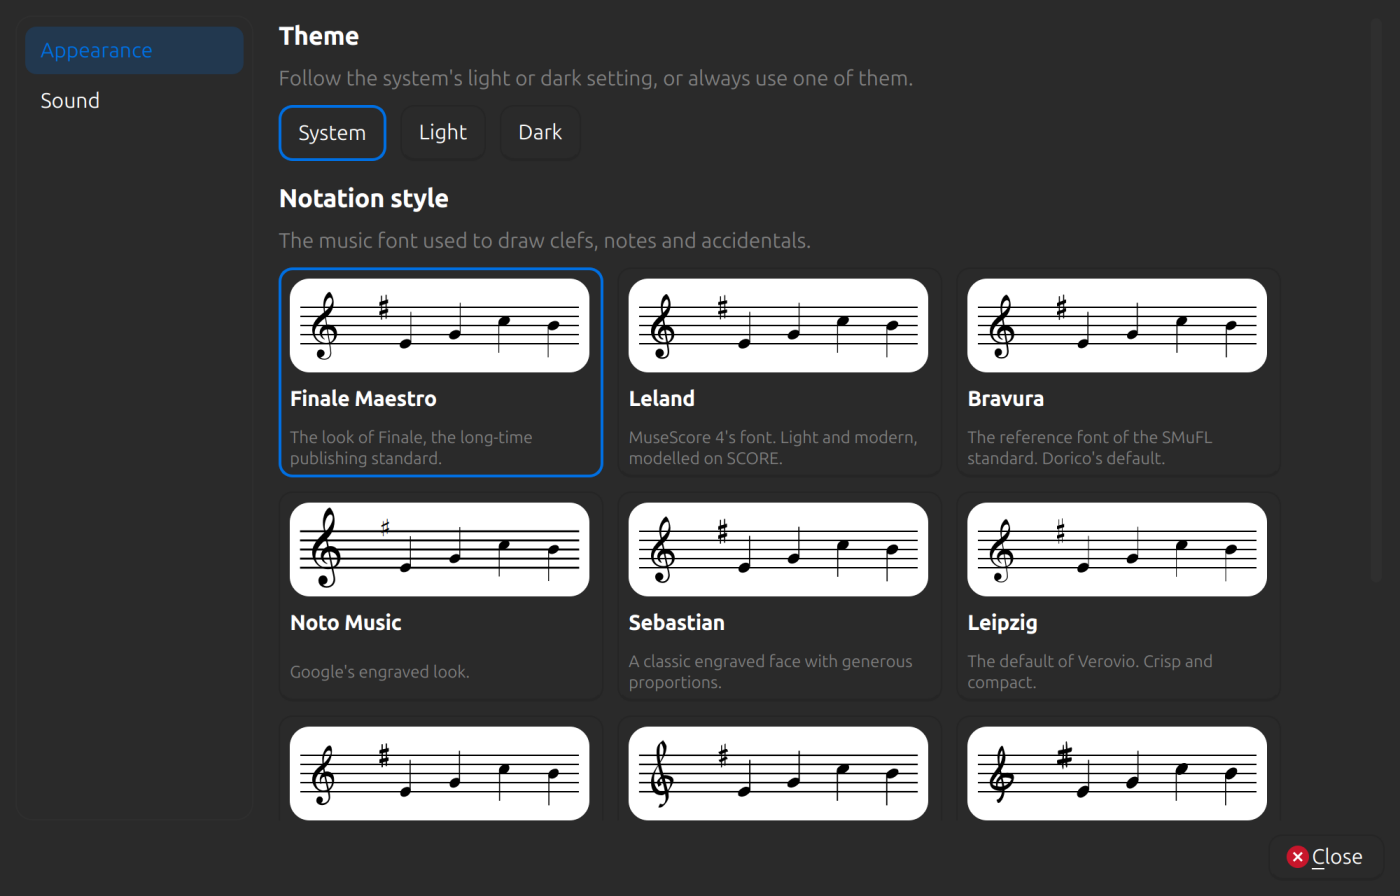
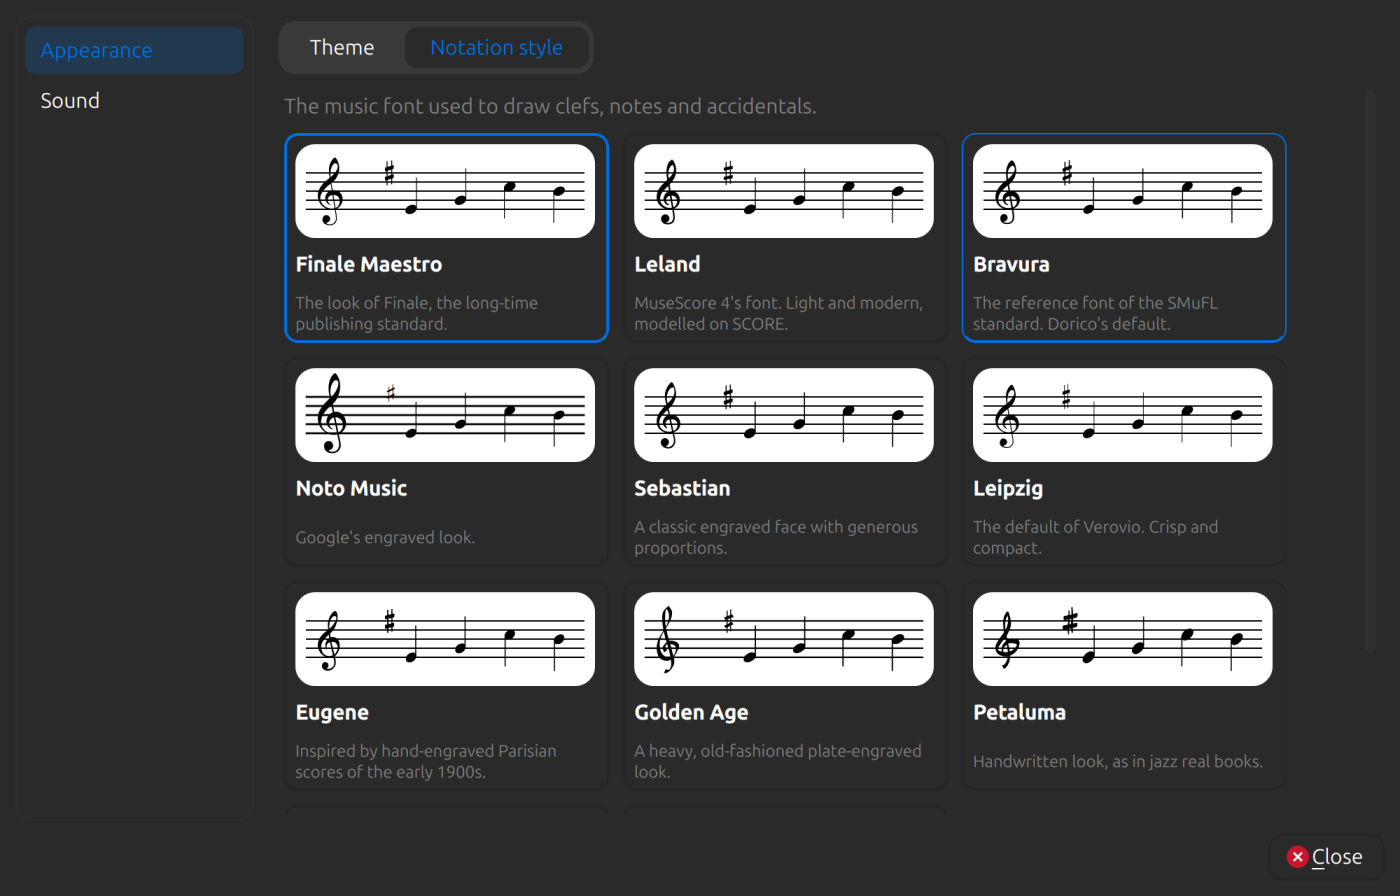
Document the new settings pages and the shipped instruments
Describe the instrument list and summary, the viola's arco and pizzicato
choice, sustained and ringing notes, the Appearance sections and the new
Ctrl+Alt+S shortcut. Credit the flute, French horn and viola recordings, add
a guide to adding an instrument, and refresh the settings screenshots.

diff --git a/docs/settings.md b/docs/settings.md
@@ -7,15 +7,18 @@ There are two kinds of settings. **App settings** apply everywhere. **Exercise s
 
 ## App settings
 
-Open them from the menu (☰) with **Settings…** or <kbd>Ctrl</kbd>+<kbd>,</kbd>. Categories are listed on the left, and
+Open them from the menu (☰) with **Settings…** or <kbd>Ctrl</kbd>+<kbd>Alt</kbd>+<kbd>S</kbd>. Categories are listed on the left, and
 the selected one's settings appear on the right.
 
 {% include shot.html src="settings.png" alt="The settings dialog showing theme and notation style options" %}
 
 ### Appearance
 
+The Appearance page has two sections, **Theme** and **Notation style**, which you switch between with the pill-shaped control at the top.
+
 **Theme.** Choose System to follow your operating system's light or dark setting, or Light or Dark to always use one.
-It applies immediately.
+Each choice is a card with a small picture of the window in that theme (System shows both halves). It applies
+immediately.
 
 **Notation style.** The music font used to draw clefs, notes and accidentals. Each choice shows a preview. Your choice
 applies to every staff in the app, including the small pictures in the settings panels. The default is Finale Maestro.
@@ -38,11 +41,29 @@ The breve is always drawn in its square form, whichever font you choose. All the
 
 ### Sound
 
-**Instrument.** The sound used for notes and for the correct-answer chime: piano, flute, clarinet, oboe, trumpet,
-violin, cello, marimba or vibraphone. Press ▶ on a card to hear it without choosing it. Sound can also be muted with
-the speaker button in any exercise.
+**Instrument.** The sound used for notes and for the correct-answer chime. The instruments are listed in a box on the
+left: piano, flute, French horn, viola, marimba and vibraphone. The one in use is in bold and
+ticked. Choose any of them to see a summary on the right of what its sound is made from:
 
-{% include shot.html src="settings-sound.png" alt="The Sound page of the settings dialog with the instrument choices" %}
+- where the recordings come from, who played them, and when and how they were recorded;
+- which articulation and dynamic were used, such as blown without vibrato at fortissimo or struck with yarn mallets;
+- how many notes are recorded, their range, and whether every semitone is covered (notes in between are shifted from
+  a neighbour);
+- how much space they take, and the terms they are available under.
+
+The viola can be played two ways, so it has one entry. Its page describes the **Arco** (bowed) and **Pizzicato**
+(plucked) recordings together, and has a row of buttons for each, such as **Use this instrument (Arco)**. The list says
+which one is in use, such as "Viola (Pizzicato)".
+
+Press **Use this instrument**, or double-click the entry in the list, to switch to it. Press **Hear it** beside it to listen
+to a short arpeggio first without choosing it, even while sound is muted. Sound can also be muted with the speaker
+button in any exercise.
+
+The flute, French horn and arco viola, which are blown or bowed, end each note as the next one begins, as a player would. Struck and plucked instruments, such as the piano, marimba and pizzicato viola, ring on. An instrument
+whose recordings are not installed in your copy of Alto is shown in italics and cannot be chosen, because it would
+only play as the synthesized piano.
+
+{% include shot.html src="settings-sound.png" alt="The Sound page of the settings dialog with a list of instruments and a summary of the selected one" %}
 
 ## Exercise settings
 

diff --git a/docs/development.md b/docs/development.md
@@ -79,6 +79,19 @@ class MyExercise(Exercise):
 Everything else comes with it: the question is recorded in the database, scored for speed, drawn in the chosen
 notation font and included in the statistics.
 
+## Adding an instrument
+
+1. Put its recordings in `alto/assets/samples/<key>/`, one mono WAV per note, named by MIDI note number (for example
+   `60.wav` for middle C). Every semitone is best. Where a note has no recording, Alto shifts the nearest one.
+2. Add an `Instrument` to `INSTRUMENTS` in `alto/audio.py`. Mark it `sustained=True` if it is bowed or blown, so each
+   note ends as the next begins. If it is another way of playing an instrument already listed, give both the same
+   `family` and each its own `variant` (the viola's "Arco" and "Pizzicato"), and they appear as one entry with a choice.
+3. Add an entry for the same key to `INFO` in `alto/instrument_info.py`: what it is, the source, who played it, and
+   the terms. This is what the summary in the Sound settings shows.
+4. Credit the recordings in `THIRD_PARTY_NOTICES.md` and the folder's `SOURCE.txt`.
+
+Only add recordings whose licence allows redistribution.
+
 ## Adding a notation font
 
 Alto draws notes with fonts that follow the [SMuFL](https://www.smufl.org/) standard.

diff --git a/docs/shortcuts.md b/docs/shortcuts.md
@@ -9,7 +9,7 @@ permalink: /shortcuts/
 |---|---|
 | <kbd>1</kbd> to <kbd>9</kbd> | Press the matching answer button. A button's tooltip shows its number. Available when an exercise has nine answers or fewer and no separate octave row. |
 | <kbd>Esc</kbd> | Go back from the statistics or database page. |
-| <kbd>Ctrl</kbd>+<kbd>,</kbd> | Open the app settings. |
+| <kbd>Ctrl</kbd>+<kbd>Alt</kbd>+<kbd>S</kbd> | Open the app settings. |
 | <kbd>Ctrl</kbd>+<kbd>R</kbd> | Restart Alto. |
 | <kbd>Ctrl</kbd>+<kbd>Q</kbd> | Quit. |
 

diff --git a/docs/credits.md b/docs/credits.md
@@ -33,7 +33,7 @@ appear only to say where a font comes from or is used.
 
 ## Instrument recordings
 
-The piano, marimba and vibraphone use recordings from the
+The piano, flute, French horn, viola, marimba and vibraphone use recordings from the
 [Musical Instrument Samples](https://theremin.music.uiowa.edu/MIS.html) of the University of Iowa Electronic Music
 Studios, which the studio makes freely available for any project. Alto converted them to mono, trimmed and faded them.
 
